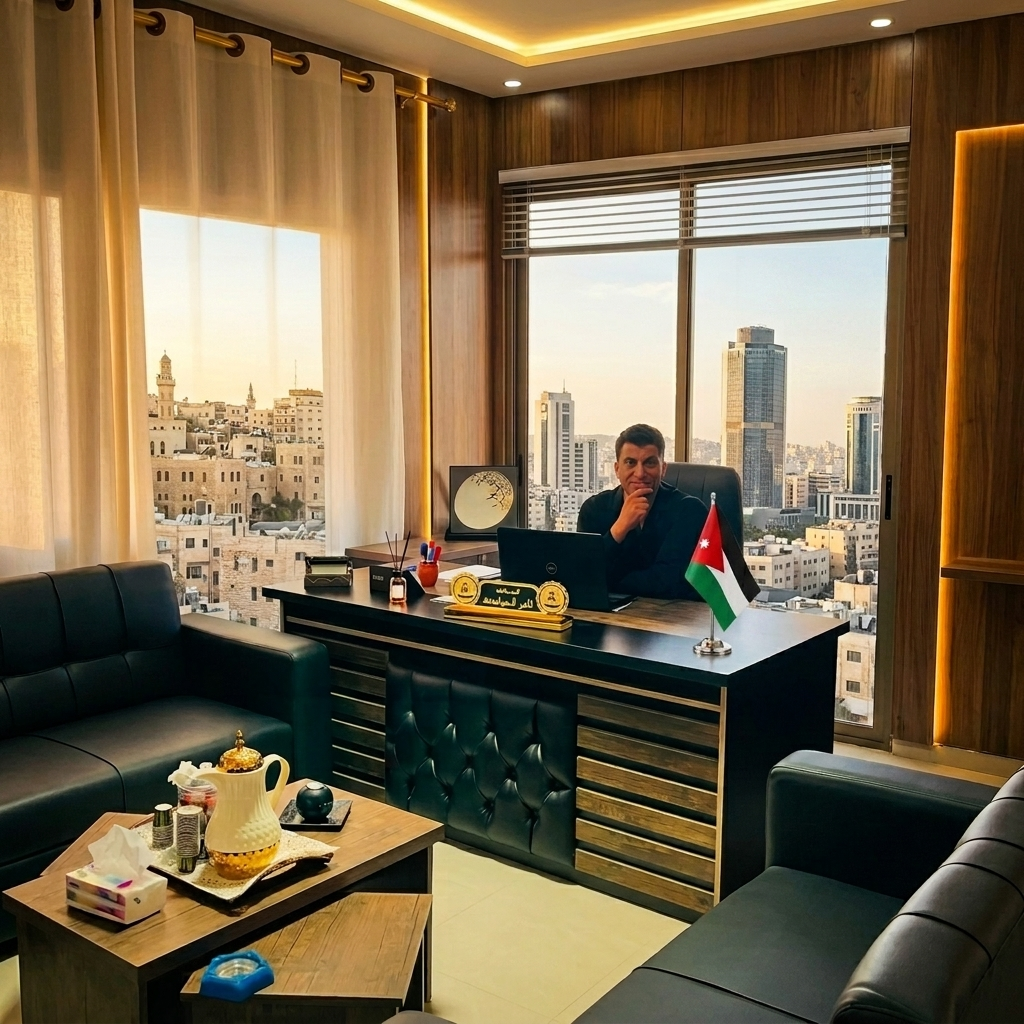
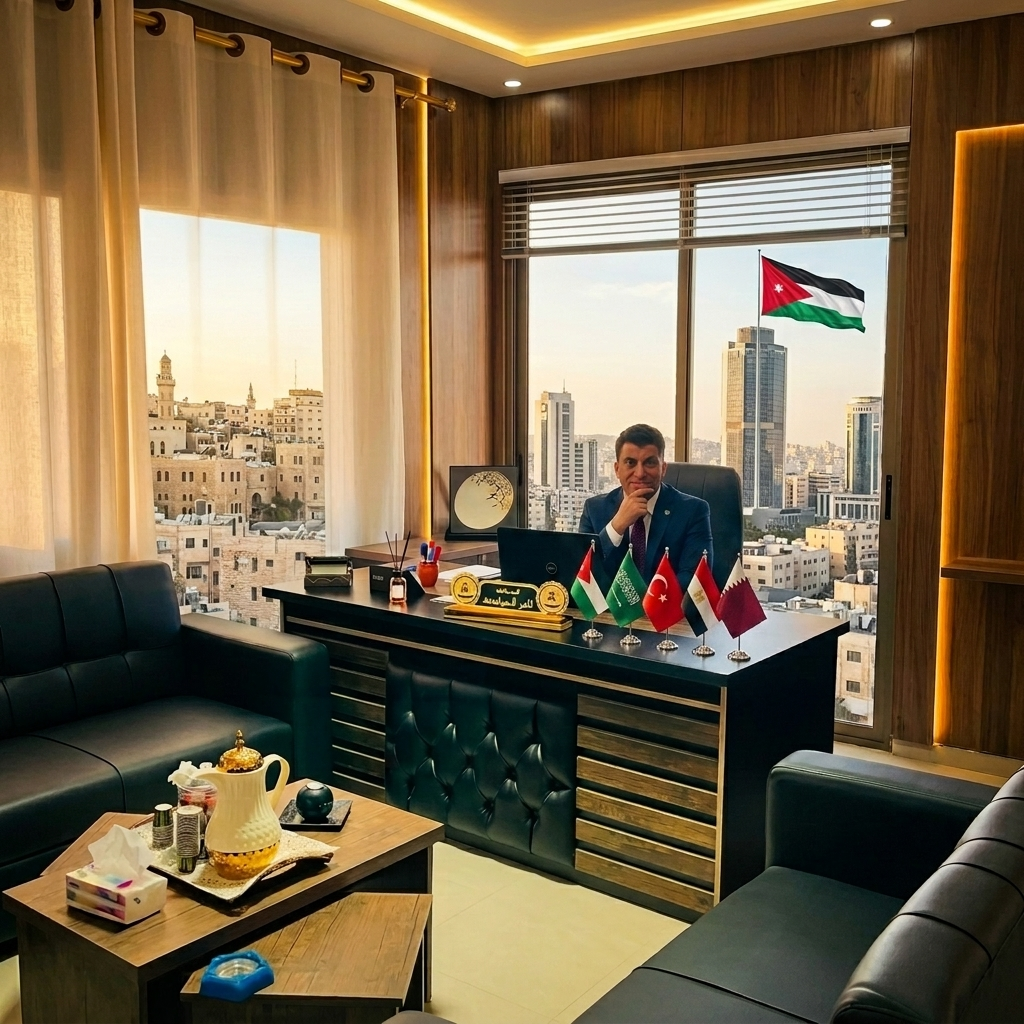
Update hero image with flags on the desk

Changed region(s): [[0.5312, 0.25, 0.8438, 0.6562]]

diff --git a/src/app/page.tsx b/src/app/page.tsx
@@ -24,7 +24,7 @@ export default async function Home() {
         <div style={{
           position: 'absolute',
           top: 0, left: 0, right: 0, bottom: 0,
-          backgroundImage: 'url(/hero-bg-4.png)',
+          backgroundImage: 'url(/hero-bg-5.png)',
           backgroundSize: 'cover',
           backgroundPosition: 'center 15%', // Adjusted to ensure the head is not cropped at the top
           zIndex: -2
